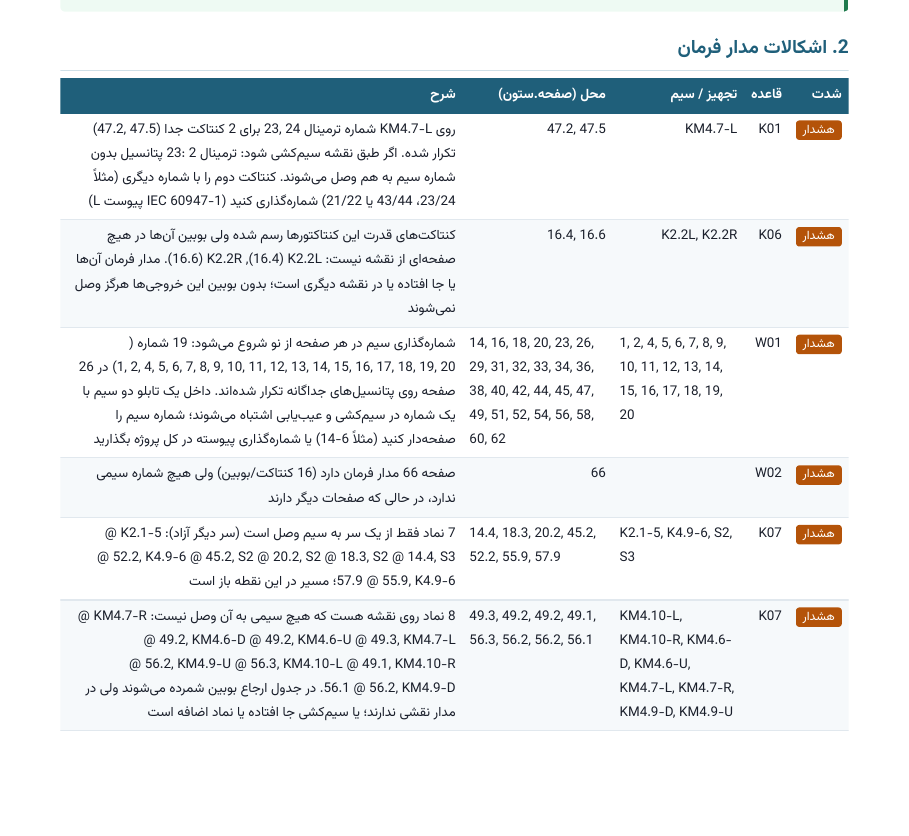
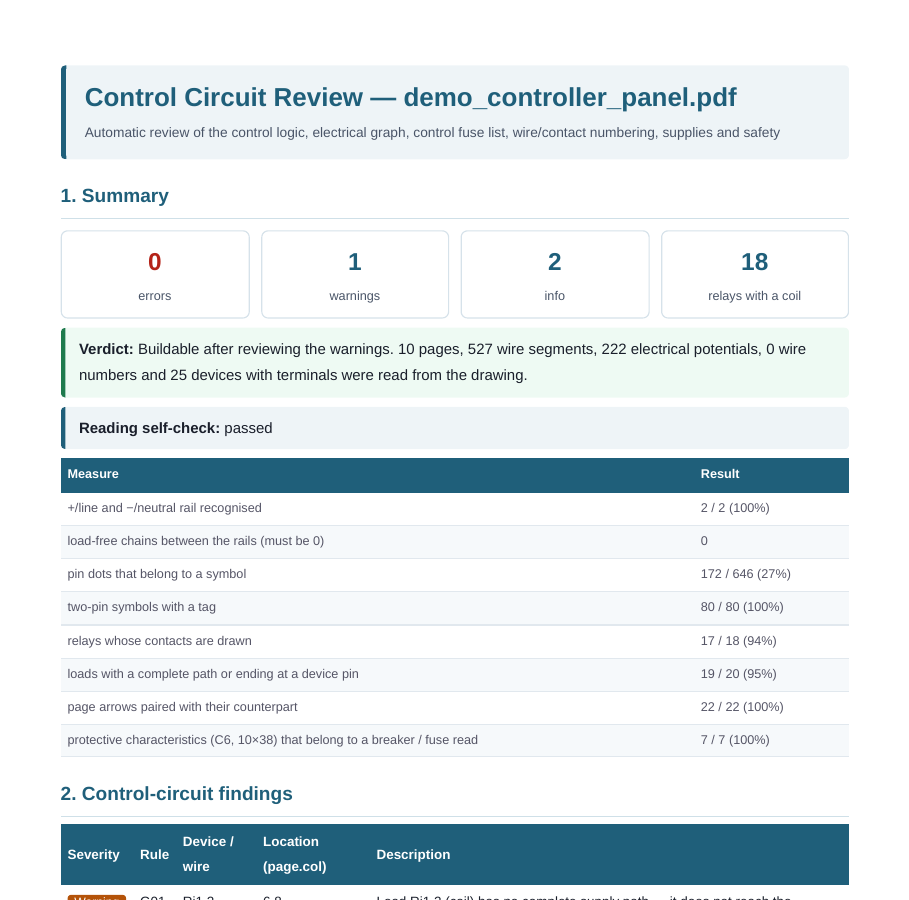
Fix : replace Persian images with English versions

diff --git a/docs/index.html b/docs/index.html
@@ -53,13 +53,9 @@
     <div class="card"><img src="img/control_logic_patterns.png" alt="patterns">
       <p>Patterns with evidence on three star-delta starters: self-hold, interlocks, emergency-stop chain.</p></div>
     <div class="card"><img src="img/control_review.png" alt="control review">
-      <p>Control review of a 66-sheet MCC drawing made in SOLIDWORKS Electrical.</p></div>
-    <div class="card"><img src="img/finding_open_wire.png" alt="open wire">
-      <p>A finding: the wire stops 6.6 pt short of the contact pin — the coil circuit is open.</p></div>
+      <p>Control-circuit review: verdict, findings by rule, every finding with page and column.</p></div>
     <div class="card"><img src="img/style_learning_report.png" alt="style learning">
       <p>Learning a new drawing style from one sample: each value with the evidence behind it.</p></div>
-    <div class="card"><img src="img/sld_house_style.png" alt="single line diagram">
-      <p>Single-line diagram generated from the schematic, in switchboard house style.</p></div>
   </div>
 
   <h2>Sample reports (PDF)</h2>

diff --git a/README.md b/README.md
@@ -39,11 +39,9 @@ learns from a sample) and produces, without manual input:
 | ![fuse list](docs/img/fuse_list_controller_panel.png) | ![control logic](docs/img/control_logic_scenario.png) |
 | Fuse list of a generator-controller panel read through a **learned** drawing style — supply and consumer of every fuse, including the controller terminals it feeds | Control logic: what energises each relay, read from the wiring — e.g. `R01 = NOT ES1 AND UCB:3/4` |
 | ![patterns](docs/img/control_logic_patterns.png) | ![control review](docs/img/control_review.png) |
-| Patterns with evidence on three star-delta starters: self-hold, interlocks, emergency-stop chain | Control review of a 66-sheet MCC drawing (SOLIDWORKS Electrical) |
-| ![style learning](docs/img/style_learning_report.png) | ![SLD](docs/img/sld_house_style.png) |
-| Style-learning report: every learned value with its evidence | Single-line diagram in switchboard house style |
-| ![open wire](docs/img/finding_open_wire.png) | |
-| A finding: the wire stops 6.6 pt short of the contact pin — the coil circuit is open | |
+| Patterns with evidence on three star-delta starters: self-hold, interlocks, emergency-stop chain | Control-circuit review: verdict, findings by rule, every finding with page and column |
+| ![style learning](docs/img/style_learning_report.png) | |
+| Style-learning report: what the agent can produce with the learned style, and every learned value with its evidence | |
 
 ## Sample reports (PDF)
 
